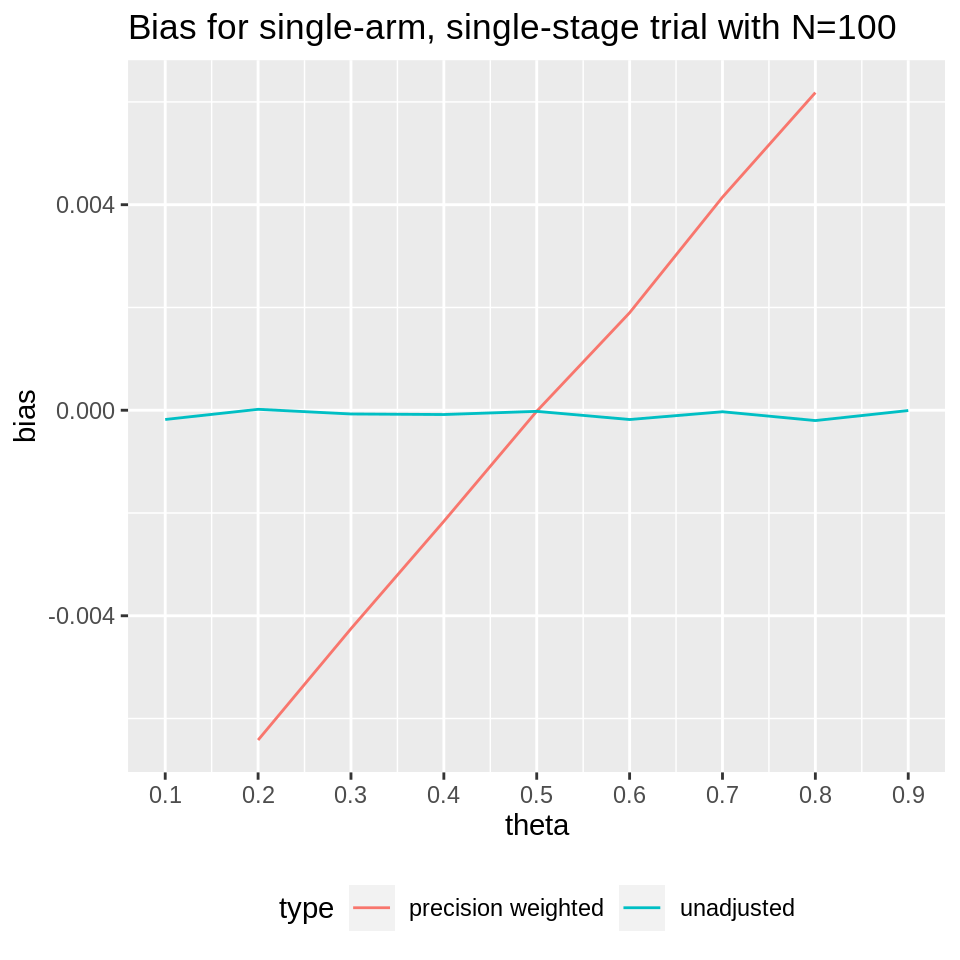
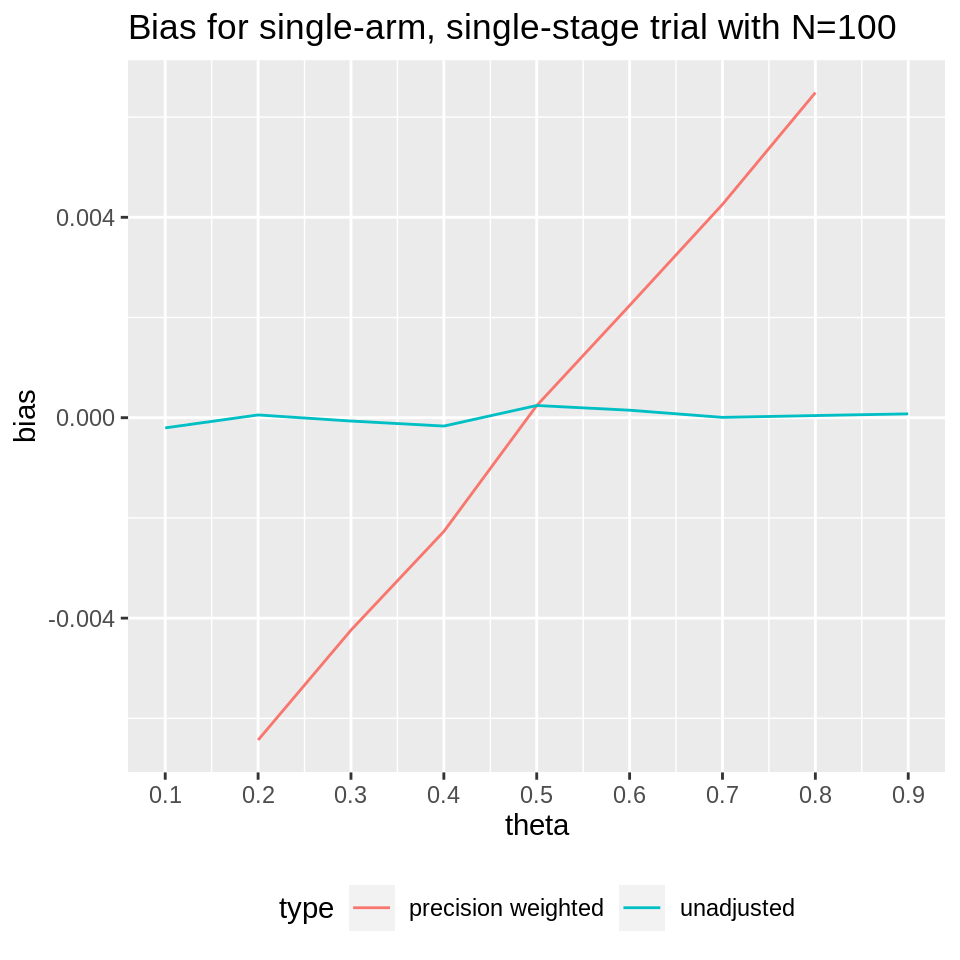
Built site for pwb: 0.0.0.9000@52dda2a

diff --git a/articles/MA_GS.html b/articles/MA_GS.html
@@ -78,7 +78,9 @@
     
     
 <div class="sourceCode" id="cb1"><pre class="downlit sourceCode r">
-<code class="sourceCode R"><span class="kw"><a href="https://rdrr.io/r/base/library.html" class="external-link">library</a></span><span class="op">(</span><span class="va"><a href="https://martinlaw.github.io/pwb/">pwb</a></span><span class="op">)</span></code></pre></div>
+<code class="sourceCode R"><span class="kw"><a href="https://rdrr.io/r/base/library.html" class="external-link">library</a></span><span class="op">(</span><span class="va"><a href="https://martinlaw.github.io/pwb/">pwb</a></span><span class="op">)</span>
+<span class="kw"><a href="https://rdrr.io/r/base/library.html" class="external-link">library</a></span><span class="op">(</span><span class="va"><a href="https://ggplot2.tidyverse.org" class="external-link">ggplot2</a></span><span class="op">)</span>
+<span class="kw"><a href="https://rdrr.io/r/base/library.html" class="external-link">library</a></span><span class="op">(</span><span class="va"><a href="https://forcats.tidyverse.org" class="external-link">forcats</a></span><span class="op">)</span></code></pre></div>
 <p>Find a GS design with p0=0.5, p1=0.6, type-I error-rate 0.1, power 0.8:</p>
 <div class="sourceCode" id="cb2"><pre class="downlit sourceCode r">
 <code class="sourceCode R"><span class="va">gs.des</span> <span class="op">&lt;-</span> <span class="fu">curtailment</span><span class="fu">::</span><span class="fu"><a href="https://rdrr.io/pkg/curtailment/man/singlearmDesign.html" class="external-link">singlearmDesign</a></span><span class="op">(</span>nmin<span class="op">=</span><span class="fl">50</span>,
@@ -114,7 +116,7 @@
 <code class="sourceCode R"><span class="va">theta.vec.0.5</span> <span class="op">&lt;-</span> <span class="fu"><a href="https://rdrr.io/r/base/seq.html" class="external-link">seq</a></span><span class="op">(</span><span class="fl">0.2</span>, <span class="fl">0.8</span>, <span class="fl">0.1</span><span class="op">)</span>
 <span class="va">ma.gs.results0</span> <span class="op">&lt;-</span> <span class="fu"><a href="https://rdrr.io/r/base/vector.html" class="external-link">vector</a></span><span class="op">(</span><span class="st">"list"</span>, <span class="fu"><a href="https://rdrr.io/r/base/length.html" class="external-link">length</a></span><span class="op">(</span><span class="va">theta.vec.0.5</span><span class="op">)</span><span class="op">)</span>
 <span class="kw">for</span><span class="op">(</span><span class="va">i</span> <span class="kw">in</span> <span class="fl">1</span><span class="op">:</span><span class="fu"><a href="https://rdrr.io/r/base/length.html" class="external-link">length</a></span><span class="op">(</span><span class="va">theta.vec.0.5</span><span class="op">)</span><span class="op">)</span><span class="op">{</span>
-  <span class="va">ma.gs.results0</span><span class="op">[[</span><span class="va">i</span><span class="op">]</span><span class="op">]</span> <span class="op">&lt;-</span> <span class="fu"><a href="../reference/maGS.html">maGS</a></span><span class="op">(</span>theta<span class="op">=</span><span class="va">theta.vec.0.5</span><span class="op">[</span><span class="va">i</span><span class="op">]</span>,
+  <span class="va">ma.gs.results0</span><span class="op">[[</span><span class="va">i</span><span class="op">]</span><span class="op">]</span> <span class="op">&lt;-</span> <span class="fu">pwb</span><span class="fu">::</span><span class="fu"><a href="../reference/maGS.html">maGS</a></span><span class="op">(</span>theta<span class="op">=</span><span class="va">theta.vec.0.5</span><span class="op">[</span><span class="va">i</span><span class="op">]</span>,
                               des<span class="op">=</span><span class="va">gs.des</span>,
                               bounds<span class="op">=</span><span class="va">bounds</span>,
                               nsims<span class="op">=</span><span class="fl">1e5</span>,
@@ -152,7 +154,7 @@
 <code class="sourceCode R"><span class="va">theta.vec</span> <span class="op">&lt;-</span> <span class="fu"><a href="https://rdrr.io/r/base/seq.html" class="external-link">seq</a></span><span class="op">(</span><span class="fl">0.1</span>, <span class="fl">0.9</span>, <span class="fl">0.1</span><span class="op">)</span>
 <span class="va">ma.gs.results2</span> <span class="op">&lt;-</span> <span class="fu"><a href="https://rdrr.io/r/base/vector.html" class="external-link">vector</a></span><span class="op">(</span><span class="st">"list"</span>, <span class="fu"><a href="https://rdrr.io/r/base/length.html" class="external-link">length</a></span><span class="op">(</span><span class="va">theta.vec</span><span class="op">)</span><span class="op">)</span>
 <span class="kw">for</span><span class="op">(</span><span class="va">i</span> <span class="kw">in</span> <span class="fl">1</span><span class="op">:</span><span class="fu"><a href="https://rdrr.io/r/base/length.html" class="external-link">length</a></span><span class="op">(</span><span class="va">theta.vec</span><span class="op">)</span><span class="op">)</span><span class="op">{</span>
-  <span class="va">ma.gs.results2</span><span class="op">[[</span><span class="va">i</span><span class="op">]</span><span class="op">]</span> <span class="op">&lt;-</span> <span class="fu"><a href="../reference/maGS.html">maGS</a></span><span class="op">(</span>theta<span class="op">=</span><span class="va">theta.vec</span><span class="op">[</span><span class="va">i</span><span class="op">]</span>,
+  <span class="va">ma.gs.results2</span><span class="op">[[</span><span class="va">i</span><span class="op">]</span><span class="op">]</span> <span class="op">&lt;-</span> <span class="fu">pwb</span><span class="fu">::</span><span class="fu"><a href="../reference/maGS.html">maGS</a></span><span class="op">(</span>theta<span class="op">=</span><span class="va">theta.vec</span><span class="op">[</span><span class="va">i</span><span class="op">]</span>,
                               des<span class="op">=</span><span class="va">gs.des2</span>,
                               bounds<span class="op">=</span><span class="va">bounds2</span>,
                               nsims<span class="op">=</span><span class="fl">1e5</span>,
@@ -188,7 +190,7 @@
 <code class="sourceCode R"><span class="va">theta.vec.low</span> <span class="op">&lt;-</span> <span class="fu"><a href="https://rdrr.io/r/base/seq.html" class="external-link">seq</a></span><span class="op">(</span><span class="fl">0.1</span>, <span class="fl">0.9</span>, <span class="fl">0.1</span><span class="op">)</span>
 <span class="va">ma.gs.results3</span> <span class="op">&lt;-</span> <span class="fu"><a href="https://rdrr.io/r/base/vector.html" class="external-link">vector</a></span><span class="op">(</span><span class="st">"list"</span>, <span class="fu"><a href="https://rdrr.io/r/base/length.html" class="external-link">length</a></span><span class="op">(</span><span class="va">theta.vec.low</span><span class="op">)</span><span class="op">)</span>
 <span class="kw">for</span><span class="op">(</span><span class="va">i</span> <span class="kw">in</span> <span class="fl">1</span><span class="op">:</span><span class="fu"><a href="https://rdrr.io/r/base/length.html" class="external-link">length</a></span><span class="op">(</span><span class="va">theta.vec.low</span><span class="op">)</span><span class="op">)</span><span class="op">{</span>
-  <span class="va">ma.gs.results3</span><span class="op">[[</span><span class="va">i</span><span class="op">]</span><span class="op">]</span> <span class="op">&lt;-</span>  <span class="fu"><a href="../reference/maGS.html">maGS</a></span><span class="op">(</span>theta<span class="op">=</span><span class="va">theta.vec.low</span><span class="op">[</span><span class="va">i</span><span class="op">]</span>,
+  <span class="va">ma.gs.results3</span><span class="op">[[</span><span class="va">i</span><span class="op">]</span><span class="op">]</span> <span class="op">&lt;-</span>  <span class="fu">pwb</span><span class="fu">::</span><span class="fu"><a href="../reference/maGS.html">maGS</a></span><span class="op">(</span>theta<span class="op">=</span><span class="va">theta.vec.low</span><span class="op">[</span><span class="va">i</span><span class="op">]</span>,
                               des<span class="op">=</span><span class="va">gs.des3</span>,
                               bounds<span class="op">=</span><span class="va">bounds3</span>,
                               nsims<span class="op">=</span><span class="fl">1e5</span>,

diff --git a/articles/two_arm_two_stage_full.html b/articles/two_arm_two_stage_full.html
@@ -82,6 +82,7 @@
 <div class="sourceCode" id="cb1"><pre class="downlit sourceCode r">
 <code class="sourceCode R"><span class="kw"><a href="https://rdrr.io/r/base/library.html" class="external-link">library</a></span><span class="op">(</span><span class="va"><a href="https://martinlaw.github.io/pwb/">pwb</a></span><span class="op">)</span>
 <span class="kw"><a href="https://rdrr.io/r/base/library.html" class="external-link">library</a></span><span class="op">(</span><span class="va"><a href="https://ggplot2.tidyverse.org" class="external-link">ggplot2</a></span><span class="op">)</span>
+<span class="kw"><a href="https://rdrr.io/r/base/library.html" class="external-link">library</a></span><span class="op">(</span><span class="va"><a href="https://forcats.tidyverse.org" class="external-link">forcats</a></span><span class="op">)</span>
 <span class="va">theta1.vec</span> <span class="op">&lt;-</span> <span class="fu"><a href="https://rdrr.io/r/base/seq.html" class="external-link">seq</a></span><span class="op">(</span><span class="fl">0.1</span>, <span class="fl">0.8</span>, <span class="fl">0.1</span><span class="op">)</span>
 <span class="va">iw.results</span> <span class="op">&lt;-</span> <span class="fu"><a href="https://rdrr.io/r/base/vector.html" class="external-link">vector</a></span><span class="op">(</span><span class="st">"list"</span>, <span class="fu"><a href="https://rdrr.io/r/base/length.html" class="external-link">length</a></span><span class="op">(</span><span class="va">theta1.vec</span><span class="op">)</span><span class="op">)</span>
 <span class="va">mc.error</span> <span class="op">&lt;-</span> <span class="fu"><a href="https://rdrr.io/r/base/numeric.html" class="external-link">numeric</a></span><span class="op">(</span><span class="fu"><a href="https://rdrr.io/r/base/length.html" class="external-link">length</a></span><span class="op">(</span><span class="va">theta1.vec</span><span class="op">)</span><span class="op">)</span>

diff --git a/articles/GS.html b/articles/GS.html
@@ -91,10 +91,10 @@
                      nsims<span class="op">=</span><span class="va">nsims</span><span class="op">)</span>
   <span class="va">single.GS</span><span class="op">$</span><span class="va">ests</span><span class="op">[</span>, <span class="fl">1</span><span class="op">:</span><span class="fl">5</span><span class="op">]</span>
 <span class="co">#&gt;                          nsims    bias mean.SE emp.SE theta</span>
-<span class="co">#&gt; Stopped early            39212 -0.0453  0.0455 0.0274   0.5</span>
-<span class="co">#&gt; Complete                 60788  0.0245  0.0421 0.0300   0.5</span>
-<span class="co">#&gt; All                     100000 -0.0029  0.0435 0.0448   0.5</span>
-<span class="co">#&gt; All (precision-weghted) 100000 -0.0002  0.0433     NA   0.5</span>
+<span class="co">#&gt; Stopped early            39024 -0.0451  0.0455 0.0276   0.5</span>
+<span class="co">#&gt; Complete                 60976  0.0246  0.0421 0.0299   0.5</span>
+<span class="co">#&gt; All                     100000 -0.0026  0.0434 0.0447   0.5</span>
+<span class="co">#&gt; All (precision-weghted) 100000  0.0001  0.0433     NA   0.5</span>
   <span class="fu"><a href="https://rdrr.io/r/base/Round.html" class="external-link">round</a></span><span class="op">(</span><span class="va">single.GS</span><span class="op">$</span><span class="va">mc.error</span>, <span class="fl">5</span><span class="op">)</span>
 <span class="co">#&gt; [1] 0.00014 0.00010</span></code></pre></div>
 <p>How does bias compare when the true response probability is varied? Find results for a vector of true response probabilities:</p>
